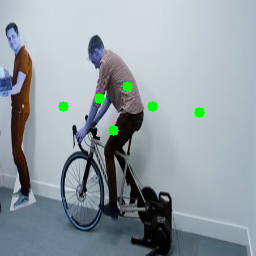
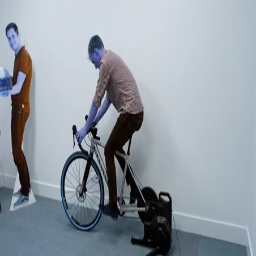
feat(output_frames): Update and generate new frame visualizations
- Add multiple new frame images from pose detection analysis
- Update existing frame images with modified content
- Disable drawing of keypoints in pose_analyzer.py
- Modify frame extraction and saving logic in test_pose_analyzer method

diff --git a/backend/pose_detection/pose_analyzer.py b/backend/pose_detection/pose_analyzer.py
@@ -274,29 +274,29 @@ class PoseAnalyzer:
 
         return hip_angle_avg
     
-    # 定义draw_pose函数，用于在帧上绘制关键点和角度
-    def draw_pose(self, frame, keypoints):
-        if self.all_keypoints is None:
-            raise ValueError('all_keypoints未初始化')
-        if self.front_indices is None:
-            raise ValueError('front_indices未初始化')
-        # 确保input_size有效
-        if self.input_size is None:
-            raise ValueError('input_size未初始化')
-        # 计算缩放比例
-        scale_x = self.input_size
-        scale_y = self.input_size
+    # # 定义draw_pose函数，用于在帧上绘制关键点和角度
+    # def draw_pose(self, frame, keypoints):
+    #     if self.all_keypoints is None:
+    #         raise ValueError('all_keypoints未初始化')
+    #     if self.front_indices is None:
+    #         raise ValueError('front_indices未初始化')
+    #     # 确保input_size有效
+    #     if self.input_size is None:
+    #         raise ValueError('input_size未初始化')
+    #     # 计算缩放比例
+    #     scale_x = self.input_size
+    #     scale_y = self.input_size
 
-        # 在这里实现绘制逻辑，例如使用cv2.circle绘制关键点
-        for idx in self.front_indices:
-            if idx < len(keypoints):  # 确保索引在有效范围内
-                kp = keypoints[idx]
-                # 还原坐标
-                x = int(kp[0] * scale_x)
-                y = int(kp[1] * scale_y)
-                print(f"绘制关键点坐标: ({x}, {y})")
-                cv2.circle(frame, (x, y), 5, (0, 255, 0), -1)  # 绘制绿色圆点
-        return frame
+    #     # 在这里实现绘制逻辑，例如使用cv2.circle绘制关键点
+    #     for idx in self.front_indices:
+    #         if idx < len(keypoints):  # 确保索引在有效范围内
+    #             kp = keypoints[idx]
+    #             # 还原坐标
+    #             x = int(kp[0] * scale_x)
+    #             y = int(kp[1] * scale_y)
+    #             print(f"绘制关键点坐标: ({x}, {y})")
+    #             cv2.circle(frame, (x, y), 5, (0, 255, 0), -1)  # 绘制绿色圆点
+    #     return frame
 
     def test_pose_analyzer(self):
         """
@@ -384,21 +384,23 @@ class PoseAnalyzer:
                 os.makedirs(output_dir)
 
             # 提取并绘制最低点和最高点的帧
-            for idx in self.lowest_pedal_point_indices + self.highest_pedal_point_indices:
+            concat_indices = np.concatenate([self.lowest_pedal_point_indices, self.highest_pedal_point_indices])
+            for idx in concat_indices:
                 print(f"绘制帧索引: {idx}")
-                
+
                 if idx < len(frames):  # 确保索引在有效范围内
                     frame = frames[idx]  # 使用切片好的frames变量
                     # 在帧上绘制front_indices中的关键点
-                    keypoints = self.all_keypoints[idx]
-                    result_frame = self.draw_pose(frame,keypoints)
+                    # keypoints = self.all_keypoints[idx]
+                    # result_frame = self.draw_pose(frame,keypoints)
+                    result_frame = frame
                     # 保存结果帧
                     output_path = os.path.join(output_dir, f'frame_{idx}.png')
                     cv2.imwrite(output_path, result_frame)
                     print(f'✓ 保存帧: {output_path}')
-                    # 显示结果帧
-                    cv2.imshow('Pose Result', result_frame)
-                    cv2.waitKey(100)  # 显示每帧100毫秒
+                    # # 显示结果帧
+                    # cv2.imshow('Pose Result', result_frame)
+                    # cv2.waitKey(100)  # 显示每帧100毫秒
                 else:
                     print(f"✗ 索引超出范围: {idx}")
 
